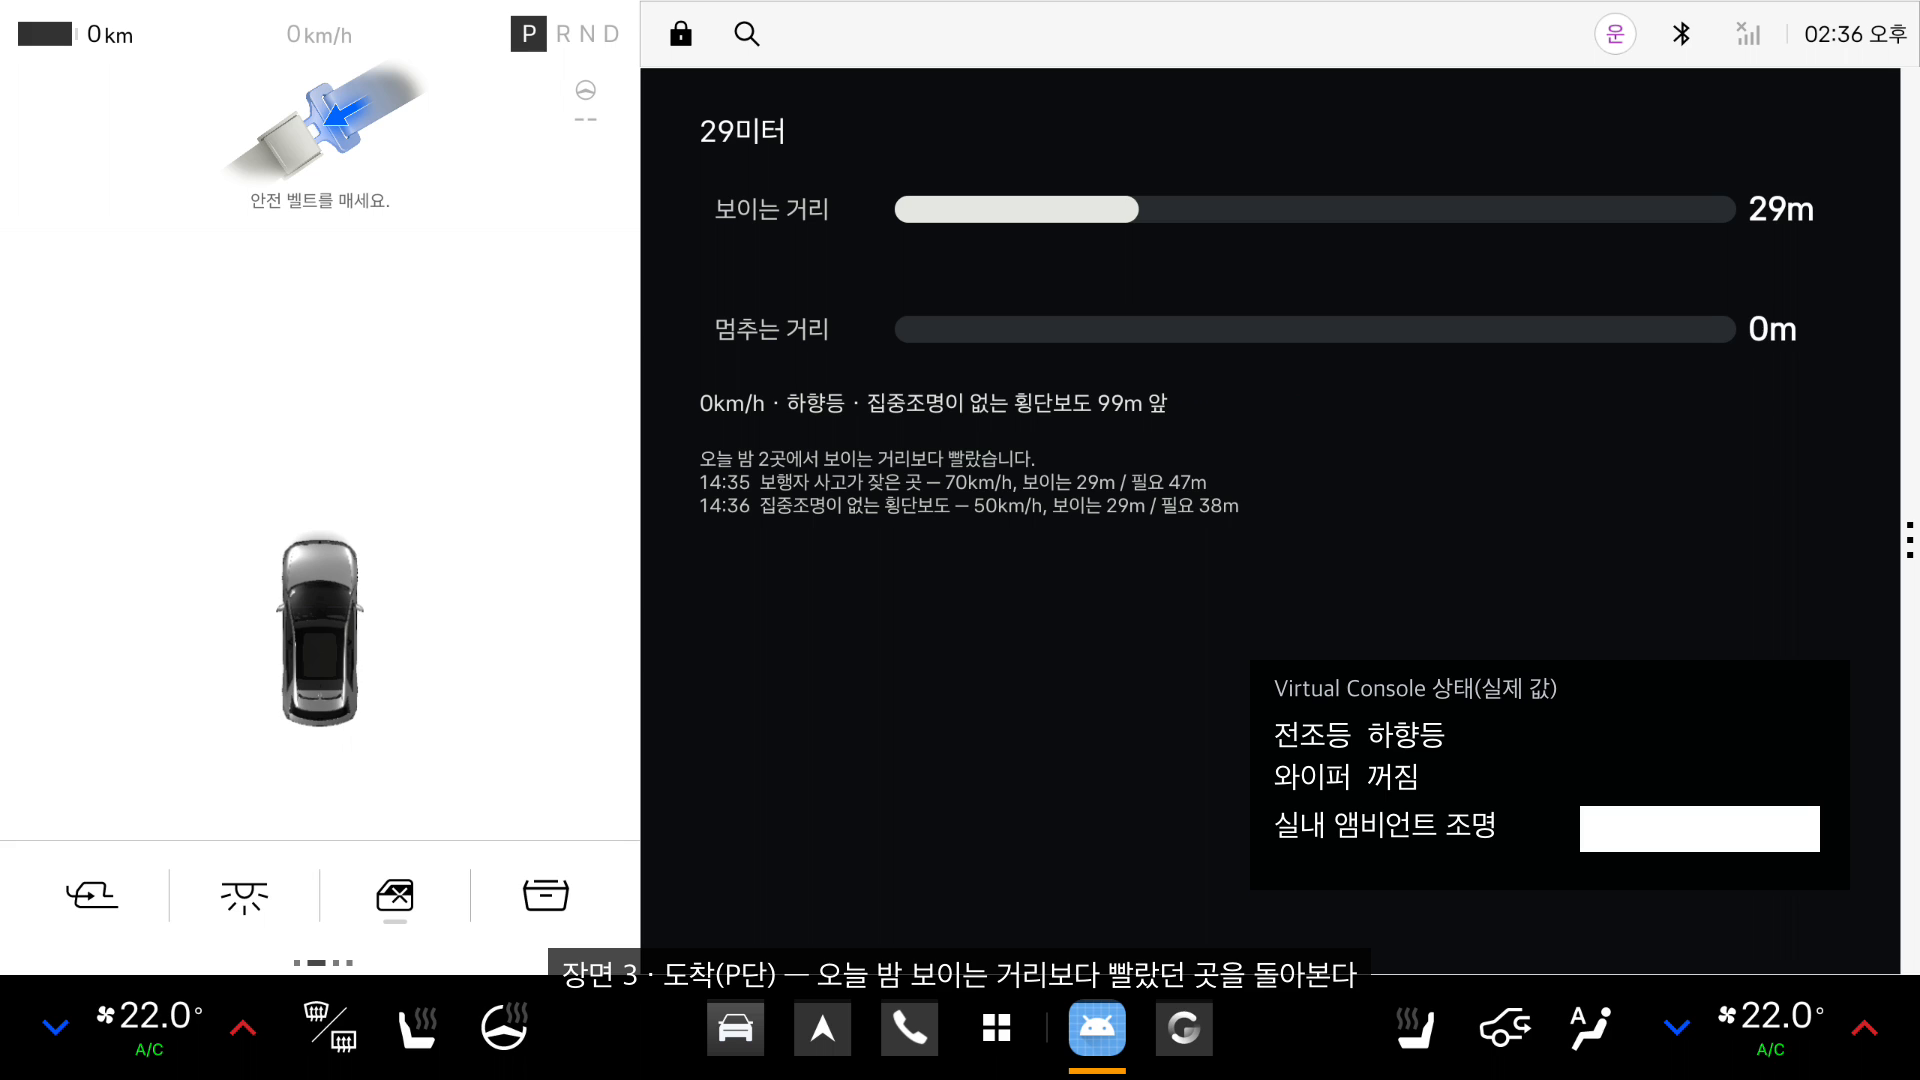
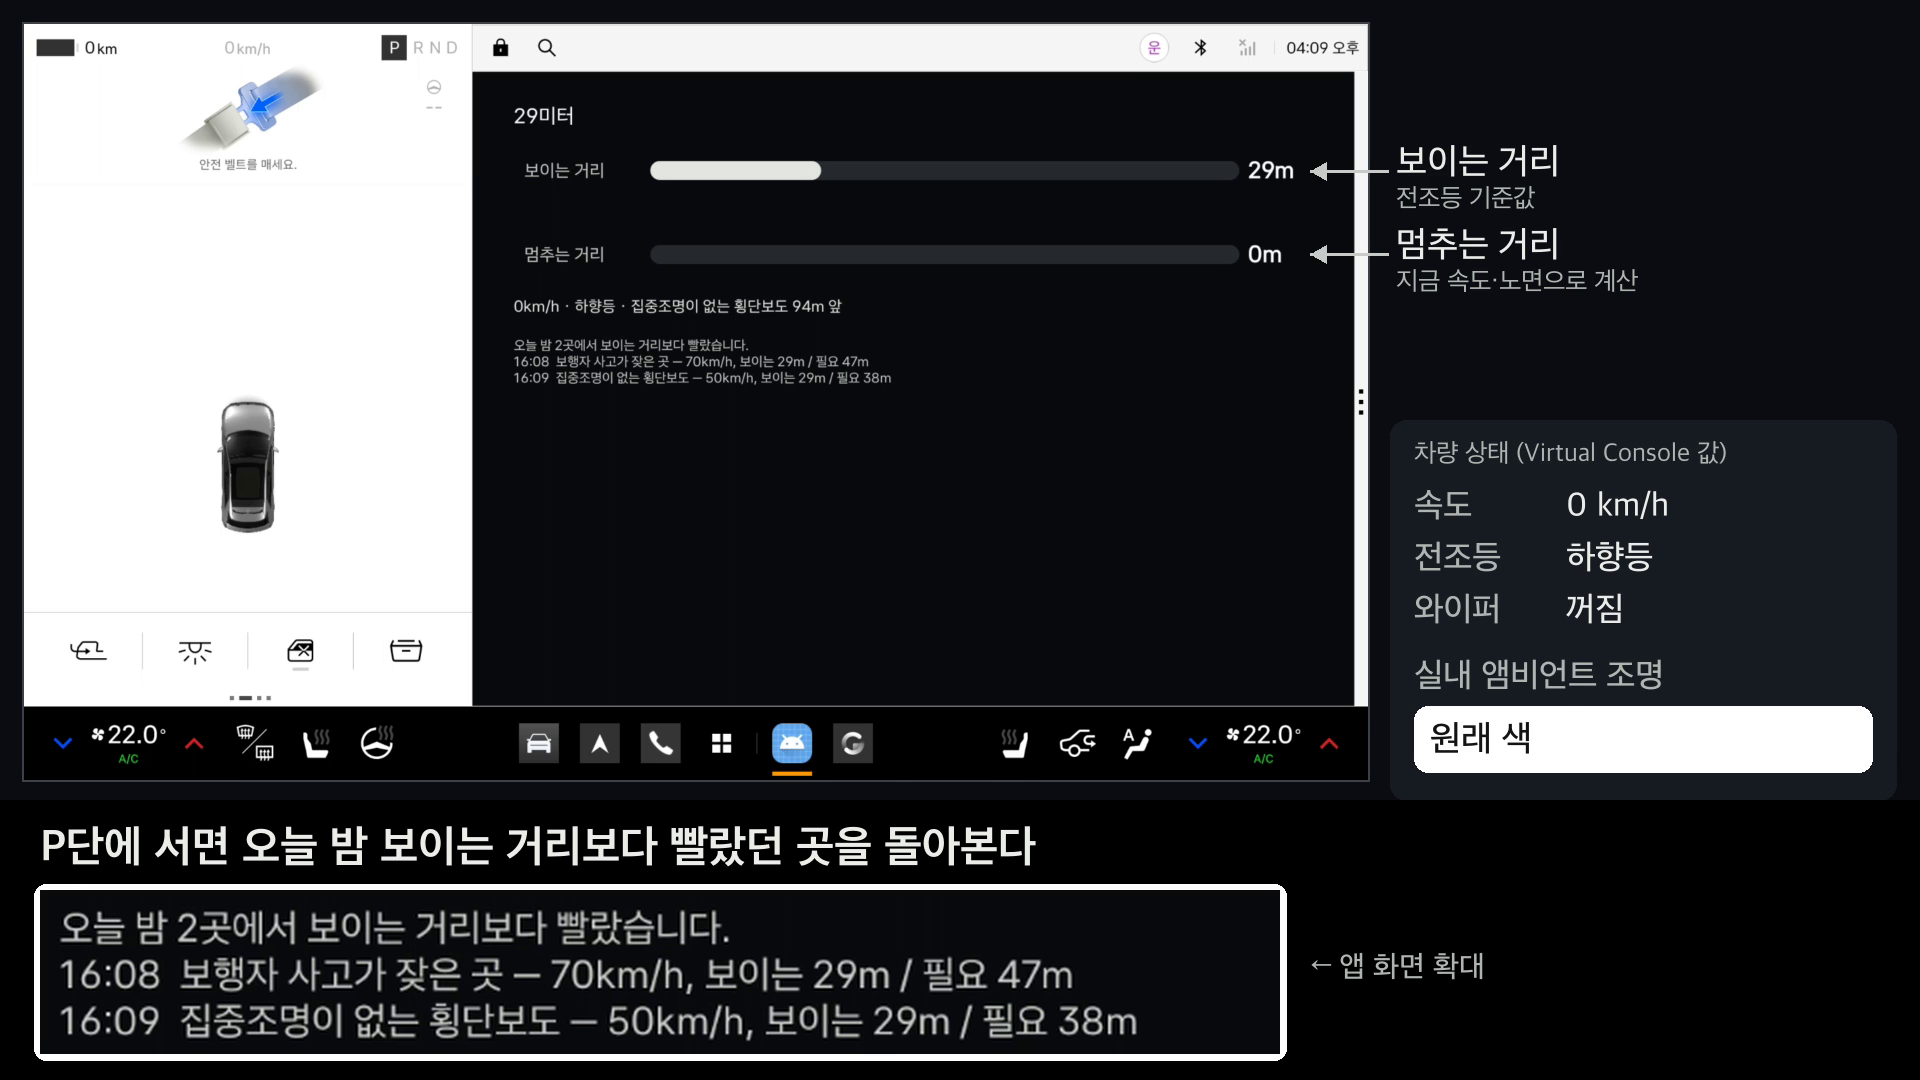
Add files via upload

diff --git a/README.md b/README.md
@@ -4,9 +4,17 @@
 
 현대자동차그룹 차량용 앱 개발 공모전(Pleos Connect) 출품작입니다.
 
-![시연 영상의 경고 장면](docs/images/screen_warning.png)
+![시연 영상의 경고 장면 — 하향등 70km/h로 보행자 사고 다발지역에 접근: 멈추는 거리 47m > 보이는 거리 29m라 실내 조명이 호박색으로 바뀌고 음성 안내](docs/images/screen_warning.png)
 
-시연 영상: 접수 메일에 첨부(Pleos Connect 에뮬레이터 화면 녹화 66초).
+| 왜 필요한가 | 비 오는 밤 장면 | 정차 후 돌아보기 |
+|---|---|---|
+| ![보이고 나서 브레이크를 밟으면 18m가 모자람](docs/images/concept_visible_vs_stopping.png) | ![비 오는 밤, 집중조명이 없는 횡단보도](docs/images/screen_rain_crosswalk.png) | ![정차 후 돌아보기](docs/images/screen_parked_review.png) |
+
+시연 영상(2분 53초): 접수 메일에 첨부 — 내레이션이 있는 컨셉 설명(약 80초: 밤에 늦게 보이는 것들 → 보이는 거리와 멈추는 거리 → 동작 원리)과 Pleos Connect 에뮬레이터 실제 화면 3장면. 에뮬레이터 소리는 녹화되지 않아 앱이 말한 문장을 macOS 음성으로 재현했고, 배경음악은 "Wallpaper" Kevin MacLeod (incompetech.com), CC BY 4.0.
+
+밤에는 검은 옷의 보행자만 늦게 보이는 것이 아닙니다. 등화를 켜지 않은 차는 뒤차가 10m 안팎에서야 알아채고(한국교통안전공단 분석, 매일신문 2026-09-17), 2026년 11월 5일 밤 강원 철원 43번 국도에서는 뒤 표시등이 잘 보이지 않던 육군 자주포를 민간 차량이 잇따라 들이받아 1명이 숨졌습니다(한국일보·한국경제 2026-11-10 보도, 경찰 수사 중). 29미터는 그중 보행자 사고가 잦은 곳에서, 지금 속도가 전조등으로 보이는 거리 안에서 멈출 수 있는지를 봅니다.
+
+![밤에는 이런 것들이 너무 늦게 보입니다](docs/images/concept_night_hazards.png)
 
 ## 무엇을 하나
 
